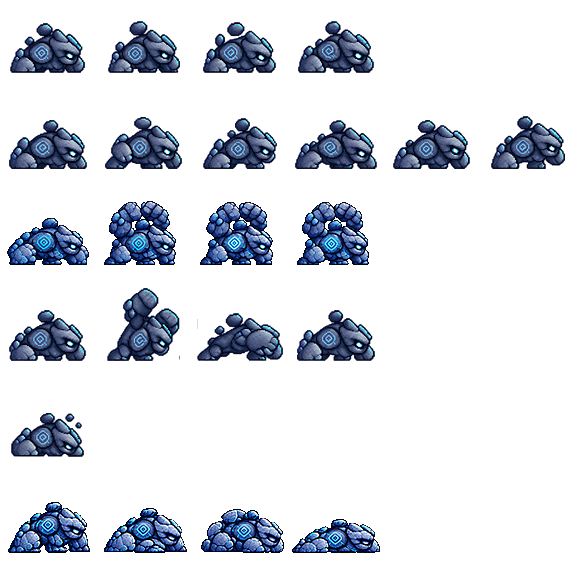
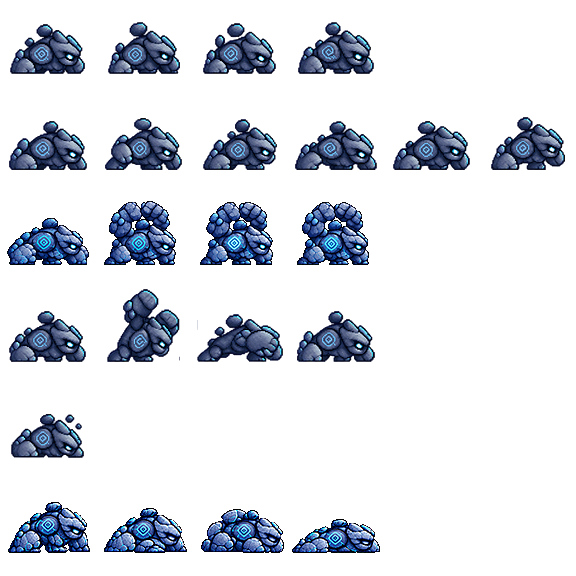
Apply: tests follow the applied art; golem rows lifted 6 px
The full suite caught six tests written for the old pictures and one real
defect: the golem's kept rows, lifted 7 px to the six-row ground line, put its
tallest attack drawing on the cell's top border (test_sprite_frames). Lifted 6 px
now (kept rows end 1 px below the new rows).

- test_frey_sprite: a row replaced by an adopted strip plays the strip
- test_defeat_motion: the fixture drops Frey's adopted defeat row for its stand-in
- test_monster_ecology, test_monster_options: six-row death timing (0.5 s + 0.3 s)
- test_story_late_flow: the drawn shadow face shows in its own colours

diff --git a/reports/apply-2026-10-29/apply_picks.py b/reports/apply-2026-10-29/apply_picks.py
@@ -181,8 +181,9 @@ def monster_sheet(mid, legacy_rel, windup_rel, defeat_rel, docs):
             sys.exit(f"{mid} {row}: {frames} frames (RealmMonster plays 4)")
         strips[row] = exact_strip(f"{mid} {row}", rel, frames, MONSTER_CELL)
     # Only the legacy ART-27 golem stands on y=80 (its lowest drawn row is 79); the six-row rows
-    # end on row 72 (RealmMonster). Lifting by 7 puts every row on the same ground, unclipped.
-    lift = 7 if mid == "jotunheim_rune_golem" else 0
+    # end on row 72 (RealmMonster). Lifting by 6 keeps the tallest attack drawing off the cell's
+    # top border (test_sprite_frames) and leaves the kept rows 1 px lower than the new ones.
+    lift = 6 if mid == "jotunheim_rune_golem" else 0
     sheet = Image.new("RGBA", (576, 576), (0, 0, 0, 0))
     layout = [("idle", 0, 4), ("walk", 1, 6), ("attack", 2, 4), ("hurt", 3, 1)]
     target_row = {"idle": 0, "walk": 1, "attack": 3, "hurt": 4}
